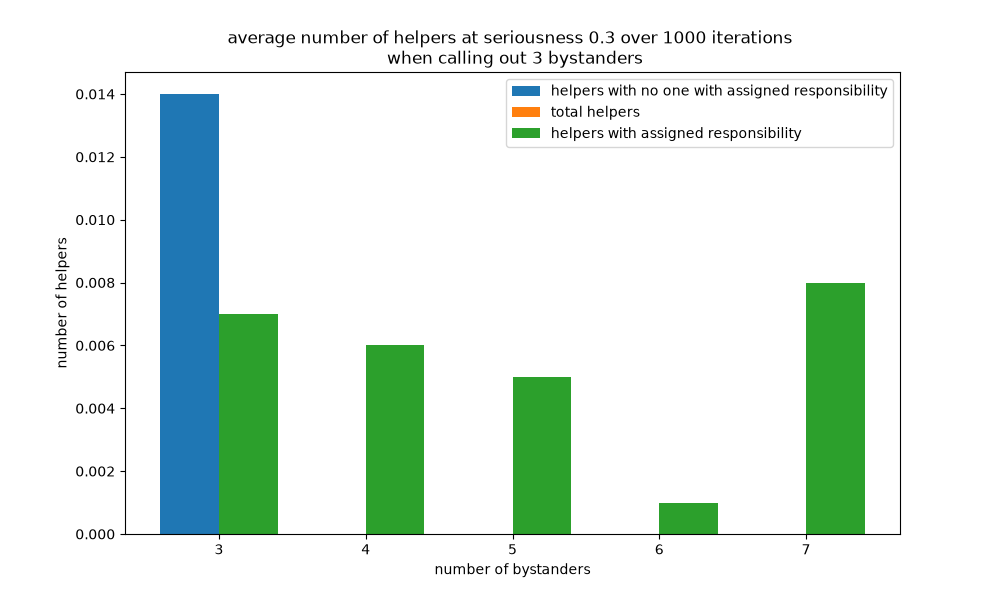
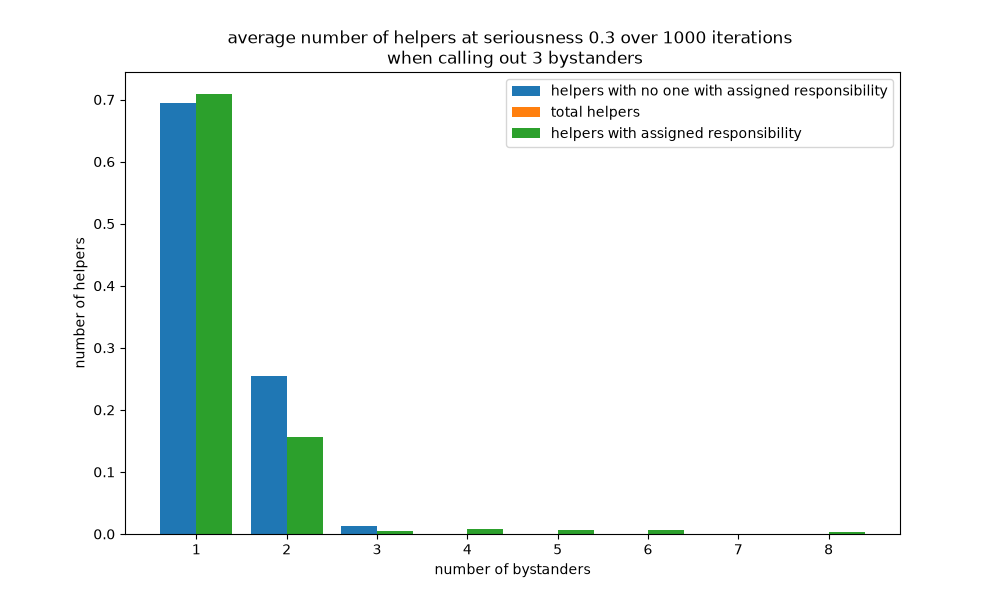
Plots

diff --git a/plots.py b/plots.py
@@ -3,7 +3,7 @@ import matplotlib.pyplot as plt
 import pandas as pd
 import numpy as np
 
-SERIOUSNESS = 0.1
+SERIOUSNESS = 0.9
 
 CALLED_OUT_GROUP = 3
 AGENTS = [1, 2, 3, 4, 5, 6, 7, 8]
